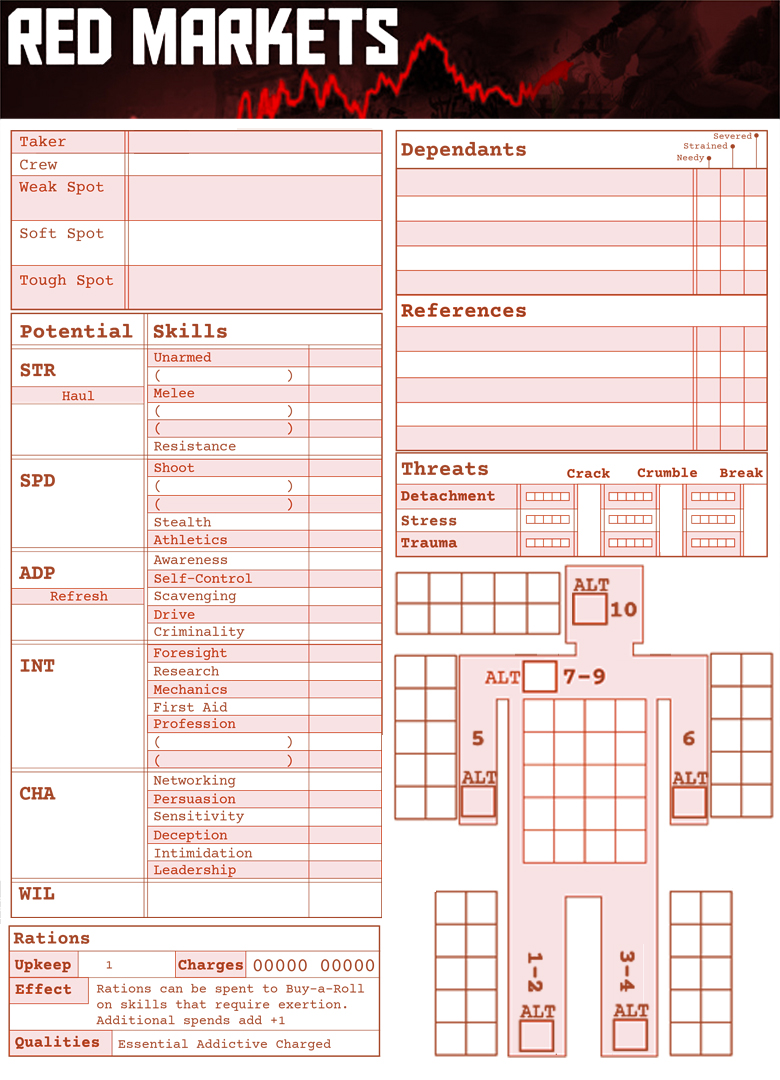
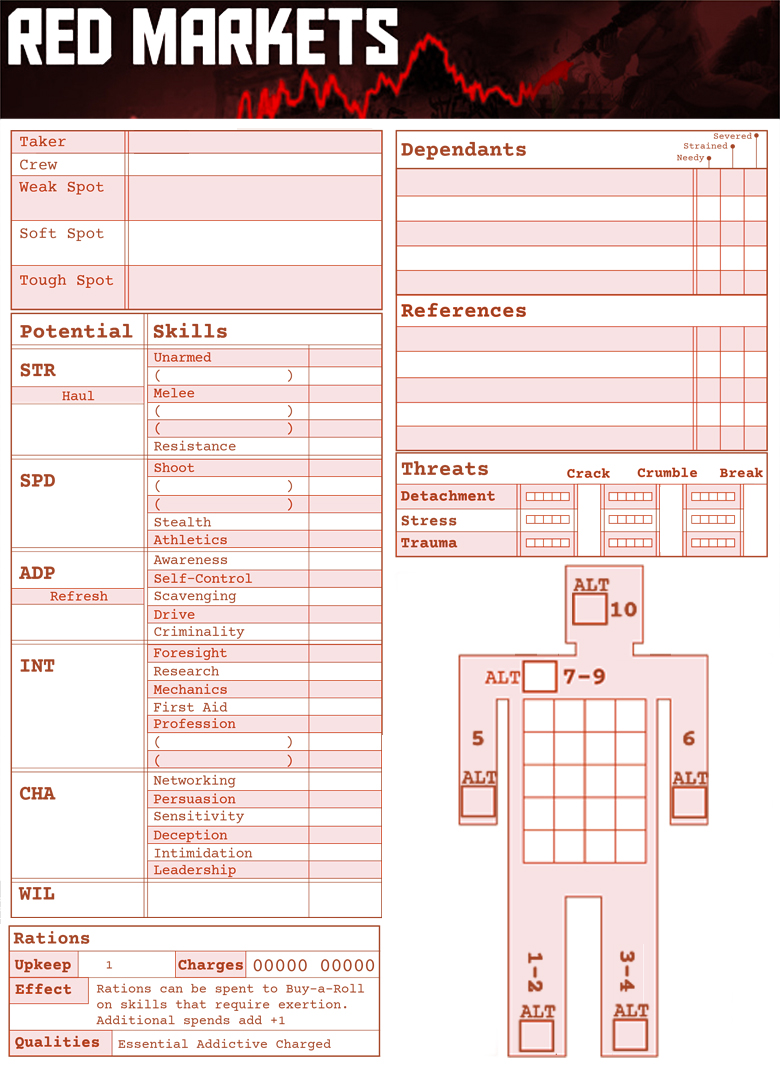
fixed damagebox bug and removed boxes from graphic

diff --git a/redmarkets.html b/redmarkets.html
@@ -19,6 +19,7 @@
 	<div class="atrGrpSTR">
 	    <label></label>
 		<input name="attr_strength" type="number" value="0">
+		<span name="attr_strength_bonus"></span>
 	</div>
 	<div class="atrButtonSTR">
 	    <button name="roll_strength" type="roll" value="&{template:default} {{name=Strength}} {{Result= PLAYER:[[1d10cf<11]] @{strength_bonus} MARKET:[[d10]]}}" class="blank-roll-button"></button>
@@ -26,6 +27,7 @@
 		<div class="atrGrpSPD">
 	    <label></label>
 		<input name="attr_speed" type="number" value="0">
+		<span name="attr_speed_bonus"></span>
 	</div>
 	<div class="atrButtonSPD">
 	    <button name="roll_speed" type="roll" value="&{template:default} {{name=SPEED}} {{Result= PLAYER:[[1d10cf<11]] @{speed_bonus} MARKET:[[d10]]}}" class="blank-roll-button"></button>
@@ -33,6 +35,7 @@
 		<div class="atrGrpADP">
 	    <label></label>
 		<input name="attr_adapt" type="number" value="0">
+		<span name="attr_adapt_bonus"></span>
 	</div>
 	<div class="atrButtonADP">
 	    <button name="roll_adapt" type="roll" value="&{template:default} {{name=ADAPTEBILITY}} {{Result= PLAYER:[[1d10cf<11]] @{adapt_bonus} MARKET:[[d10]]}}" class="blank-roll-button"></button>
@@ -40,6 +43,7 @@
 		<div class="atrGrpINT">
 	    <label></label>
 		<input name="attr_intelligence" type="number" value="0">
+		<span name="attr_intelligence_bonus"></span>
 	</div>
 	<div class="atrButtonINT">
 	    <button name="roll_intelligence" type="roll" value="&{template:default} {{name=INTELLIGENCE}} {{Result= PLAYER:[[1d10cf<11]] @{intelligence_bonus} MARKET:[[d10]]}}" class="blank-roll-button"></button>
@@ -47,15 +51,151 @@
 		<div class="atrGrpCHA">
 	    <label></label>
 		<input name="attr_charisma" type="number" value="0">
+		<span name="attr_charisma_bonus"></span>
 	</div>
 		<div class="atrGrpWIL">
 	    <label></label>
 		<input name="attr_will" type="number" value="0">
+		<span name="attr_will_bonus"></span>
 		<input name="attr_curwill" type="number" value="0">
+		<span name="attr_curwill_bonus"></span>
 	</div>
 	<div class="atrButtonCHA">
 	    <button name="roll_charisma" type="roll" value="&{template:default} {{name=CHARISMA}} {{Result= PLAYER:[[1d10cf<11]] @{charisma_bonus} MARKET:[[d10]]}}" class="blank-roll-button"></button>
 	</div>
+	<div class="DamageHead">
+    <div class="sheet-container">
+        <div class="sheet-child">
+            <input type="radio" name="attr_radioH1" class="sheet-select-radio sheet-none" value="0" checked="true" />
+            <label>none</label>
+            <input type="radio" name="attr_radioH1" class="sheet-select-radio sheet-stun" value="1" />
+            <label>stun</label>
+            <input type="radio" name="attr_radioH1" class="sheet-select-radio sheet-kill" value="2" />
+            <label>kill</label>
+            <div class="sheet-none"></div>
+            <div class="sheet-stun"></div>
+            <div class="sheet-kill"></div>
+        </div>
+    </div>
+    <div class="sheet-container">
+        <div class="sheet-child">
+            <input type="radio" name="attr_radioH2" class="sheet-select-radio sheet-none" value="0" checked="true" />
+            <label>none</label>
+            <input type="radio" name="attr_radioH2" class="sheet-select-radio sheet-stun" value="1" />
+            <label>stun</label>
+            <input type="radio" name="attr_radioH2" class="sheet-select-radio sheet-kill" value="2" />
+            <label>kill</label>
+            <div class="sheet-none"></div>
+            <div class="sheet-stun"></div>
+            <div class="sheet-kill"></div>
+        </div>
+    </div>
+    <div class="sheet-container">
+        <div class="sheet-child">
+            <input type="radio" name="attr_radioH3" class="sheet-select-radio sheet-none" value="0" checked="true" />
+            <label>none</label>
+            <input type="radio" name="attr_radioH3" class="sheet-select-radio sheet-stun" value="1" />
+            <label>stun</label>
+            <input type="radio" name="attr_radioH3" class="sheet-select-radio sheet-kill" value="2" />
+            <label>kill</label>
+            <div class="sheet-none"></div>
+            <div class="sheet-stun"></div>
+            <div class="sheet-kill"></div>
+        </div>
+    </div>
+    <div class="sheet-container">
+        <div class="sheet-child">
+            <input type="radio" name="attr_radioH4" class="sheet-select-radio sheet-none" value="0" checked="true" />
+            <label>none</label>
+            <input type="radio" name="attr_radioH4" class="sheet-select-radio sheet-stun" value="1" />
+            <label>stun</label>
+            <input type="radio" name="attr_radioH4" class="sheet-select-radio sheet-kill" value="2" />
+            <label>kill</label>
+            <div class="sheet-none"></div>
+            <div class="sheet-stun"></div>
+            <div class="sheet-kill"></div>
+        </div>
+    </div>
+    <div class="sheet-container">
+        <div class="sheet-child">
+            <input type="radio" name="attr_radioH5" class="sheet-select-radio sheet-none" value="0" checked="true" />
+            <label>none</label>
+            <input type="radio" name="attr_radioH5" class="sheet-select-radio sheet-stun" value="1" />
+            <label>stun</label>
+            <input type="radio" name="attr_radioH5" class="sheet-select-radio sheet-kill" value="2" />
+            <label>kill</label>
+            <div class="sheet-none"></div>
+            <div class="sheet-stun"></div>
+            <div class="sheet-kill"></div>
+        </div>
+    </div>
+    <div class="sheet-container">
+        <div class="sheet-child">
+            <input type="radio" name="attr_radioH6" class="sheet-select-radio sheet-none" value="0" checked="true" />
+            <label>none</label>
+            <input type="radio" name="attr_radioH6" class="sheet-select-radio sheet-stun" value="1" />
+            <label>stun</label>
+            <input type="radio" name="attr_radioH6" class="sheet-select-radio sheet-kill" value="2" />
+            <label>kill</label>
+            <div class="sheet-none"></div>
+            <div class="sheet-stun"></div>
+            <div class="sheet-kill"></div>
+        </div>
+    </div>
+    <div class="sheet-container">
+        <div class="sheet-child">
+            <input type="radio" name="attr_radioH7" class="sheet-select-radio sheet-none" value="0" checked="true" />
+            <label>none</label>
+            <input type="radio" name="attr_radioH7" class="sheet-select-radio sheet-stun" value="1" />
+            <label>stun</label>
+            <input type="radio" name="attr_radioH7" class="sheet-select-radio sheet-kill" value="2" />
+            <label>kill</label>
+            <div class="sheet-none"></div>
+            <div class="sheet-stun"></div>
+            <div class="sheet-kill"></div>
+        </div>
+    </div>
+    <div class="sheet-container">
+        <div class="sheet-child">
+            <input type="radio" name="attr_radioH8" class="sheet-select-radio sheet-none" value="0" checked="true" />
+            <label>none</label>
+            <input type="radio" name="attr_radioH8" class="sheet-select-radio sheet-stun" value="1" />
+            <label>stun</label>
+            <input type="radio" name="attr_radioH8" class="sheet-select-radio sheet-kill" value="2" />
+            <label>kill</label>
+            <div class="sheet-none"></div>
+            <div class="sheet-stun"></div>
+            <div class="sheet-kill"></div>
+        </div>
+    </div>
+    <div class="sheet-container">
+        <div class="sheet-child">
+            <input type="radio" name="attr_radioH9" class="sheet-select-radio sheet-none" value="0" checked="true" />
+            <label>none</label>
+            <input type="radio" name="attr_radioH9" class="sheet-select-radio sheet-stun" value="1" />
+            <label>stun</label>
+            <input type="radio" name="attr_radioH9" class="sheet-select-radio sheet-kill" value="2" />
+            <label>kill</label>
+            <div class="sheet-none"></div>
+            <div class="sheet-stun"></div>
+            <div class="sheet-kill"></div>
+        </div>
+    </div>
+    <div class="sheet-container">
+        <div class="sheet-child">
+            <input type="radio" name="attr_radioH10" class="sheet-select-radio sheet-none" value="0" checked="true" />
+            <label>none</label>
+            <input type="radio" name="attr_radioH10" class="sheet-select-radio sheet-stun" value="1" />
+            <label>stun</label>
+            <input type="radio" name="attr_radioH10" class="sheet-select-radio sheet-kill" value="2" />
+            <label>kill</label>
+            <div class="sheet-none"></div>
+            <div class="sheet-stun"></div>
+            <div class="sheet-kill"></div>
+        </div>
+    </div>
+    </div>
+
 </div>
 
 
@@ -72,12 +212,12 @@
 
 
 <script type="text/worker">
-
-const int = score => parseInt(score, 10) || 0;
-
 // <button name="roll_strength" type="roll" value="&{template:default} {{name=Strength}} {{Result=[[d20+(@{strength_bonus})]]}}"></button>
 // according to the table on page 5 of the Rulebook.
 // If the Base stat is less than 1, the sheet sets the bonus to "-2"
+on("change:strength", function() {
+
+});
 
 const stats = ["strength", "speed", "adapt", "intelligence", "charisma"];
 stats.forEach(stat => {

diff --git a/redmarkets.css b/redmarkets.css
@@ -12,7 +12,6 @@ div.sheet-topLeftGroup{
   display: grid;
   grid-template-columns: 1fr;
   grid-template-rows: 22px 22px 44px 44px 44px;
-  /*border: 3px solid #73AD21;*/
 }
 div.sheet-atrGrpSTR{
   position: relative;
@@ -123,8 +122,19 @@ div.sheet-twoColTextField{
     padding-Right: 12px;
     display: block;
     align-items: center;
-    /*border: 3px solid black;*/
 }
+/* --------- DAMAGE ------------- */
+div.sheet-DamageHead{
+    display:grid;
+    grid-template-columns: 5fr 5fr 5fr 5fr 5fr;
+    position: relative;
+    Top:112px;
+    left: 390px;
+    width: 150px;
+    height:60px;
+    padding:0px;
+}
+
 /* --------- Text ------------- */
 
 span.sheet-bold{
@@ -212,4 +222,95 @@ button[type=roll].sheet-blank-roll-button::before {
     font-family: dicefontd6;
     content: "F"; 
     color: #500000;
+}
+button[type=damage]::before {
+    background-image: none;
+    font-family: Pictos;
+    content: "*"; 
+    color: #000000;
+    font-size:10px;
+}
+
+
+
+
+
+
+.sheet-container {
+    width: 35px;
+    height:35px;
+}
+
+.sheet-container,
+.sheet-child {
+    display: inline-block;
+}
+
+.sheet-child {
+    vertical-align: middle;
+    width: 35px;
+    height: 35px;
+}
+
+.sheet-child input,
+.sheet-child input + label {
+    display: none;
+    z-index: 1;
+}
+
+.sheet-child:hover {
+    transition-delay: 1.5s;
+    background: gray;
+    position:relative;
+    width: 100px;
+    height: auto;
+    z-index: 1;
+    padding: 5px;
+    transition: all 0.5s ease 0.5s;
+}
+
+.sheet-child:hover > div.sheet-stun {
+    display: none;
+}
+
+.sheet-child:hover input,
+.sheet-child:hover input + label {
+    display: inline;
+}
+
+.sheet-child:hover input + label {
+   margin-right: 50%
+}
+
+.sheet-child:hover label {
+    display: inline-block;
+}
+div.sheet-none {
+    width: 30px;
+    height: 30px;
+    background-image: url(https://github.com/Bjoerik623/Roll20_RedMarkets_CustomSheet/blob/master/images/noDamage.JPG?raw=true);
+    background-repeat: no-repeat;
+    display: none;
+    border: 3px solid black;
+}
+div.sheet-stun {
+    width: 30px;
+    height: 30px;
+    background-image: url(https://github.com/Bjoerik623/Roll20_RedMarkets_CustomSheet/blob/master/images/stunDamage.JPG?raw=true);
+    background-repeat: no-repeat;
+    display: none;
+    border: 3px solid black;
+}
+div.sheet-kill {
+    width: 30px;
+    height: 30px;
+    background-image: url(https://github.com/Bjoerik623/Roll20_RedMarkets_CustomSheet/blob/master/images/killDamage.JPG?raw=true);
+    background-repeat: no-repeat;
+    display: none;
+    border: 3px solid black;
+}
+.sheet-child:not(:hover) input.sheet-select-radio.sheet-none:checked ~ div.sheet-none,
+.sheet-child:not(:hover) input.sheet-select-radio.sheet-stun:checked ~ div.sheet-stun,
+.sheet-child:not(:hover) input.sheet-select-radio.sheet-kill:checked ~ div.sheet-kill {
+    display: block;
 }
